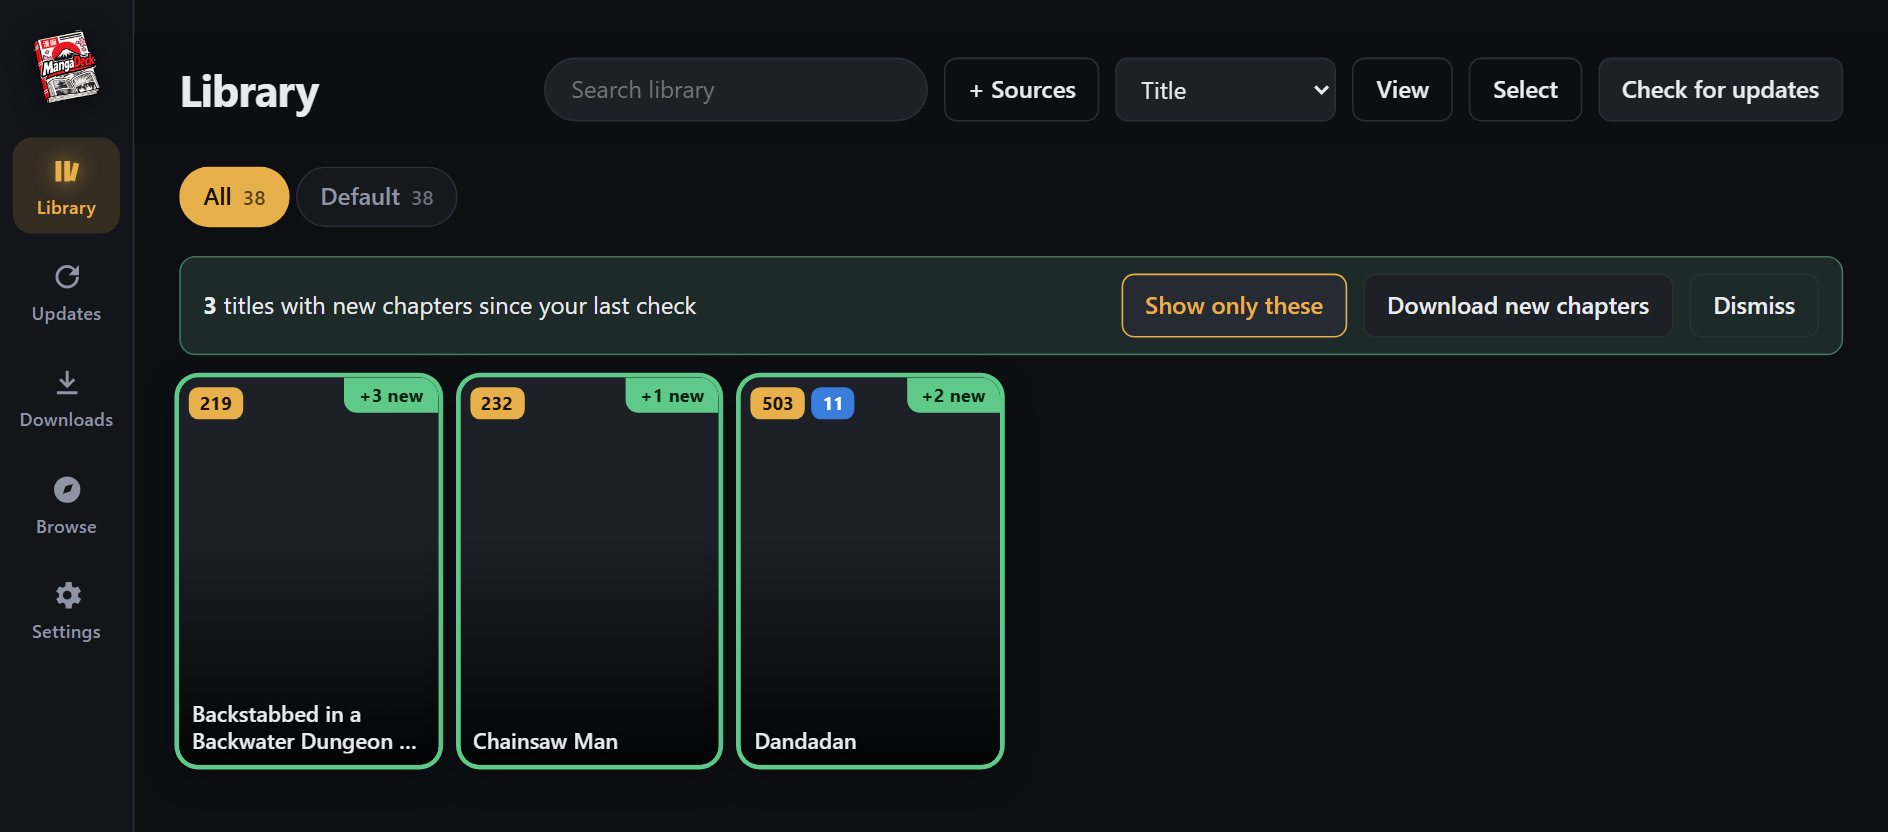
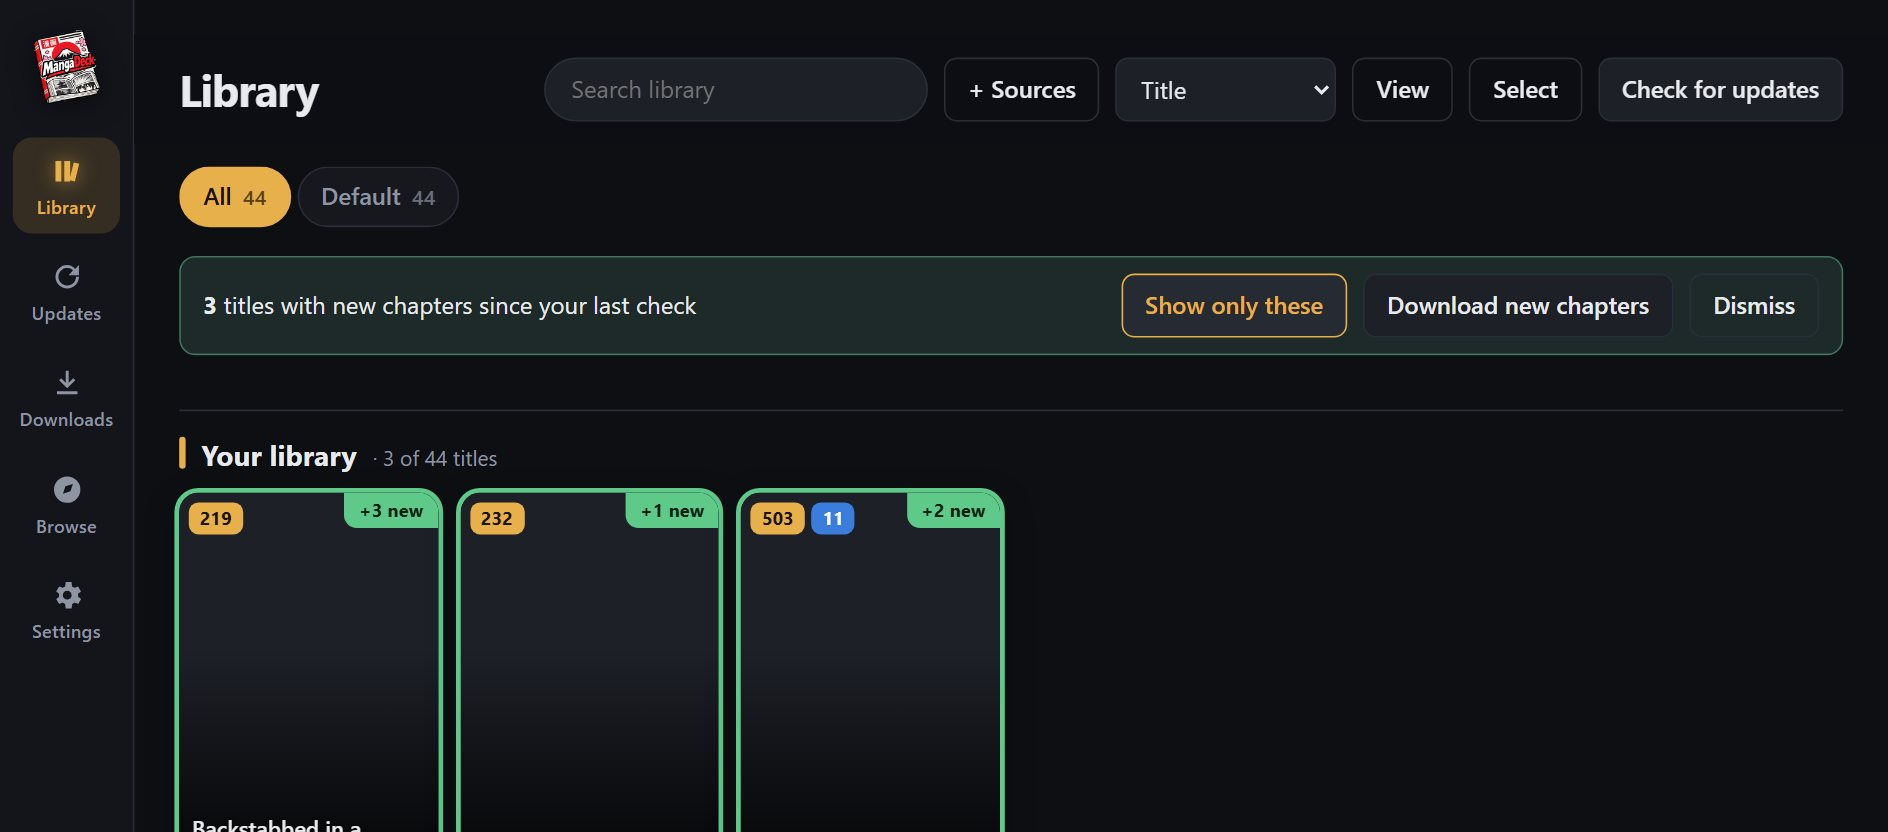
README: retake library and manga screenshots, drop four stale ones, describe the library sections

diff --git a/README.md b/README.md
@@ -14,14 +14,6 @@ React + TypeScript + Vite, no UI framework, no GraphQL codegen. About 7k lines.
 
 Manga covers are blanked out in all screenshots; in the app they show the real covers.
 
-| Library with recommendations | Manga page with official volumes |
-| --- | --- |
-| ![Library](docs/screenshots/library.jpg) | ![Manga page](docs/screenshots/manga-volumes.jpg) |
-
-| Find a title in your sources from the library | Paced bulk downloads |
-| --- | --- |
-| ![Search sources](docs/screenshots/search-sources.jpg) | ![Paced downloads](docs/screenshots/paced-downloads.jpg) |
-
 ### Downloads
 
 Bulk downloads and `.cbz` exports are saved jobs that run one chapter at a time, show their progress here, and survive a reload. A chapter that keeps
@@ -42,7 +34,8 @@ files in and the page lists what you have, what is missing, and merges the volum
 ### Library: new chapters and what's popular
 
 After **Check for updates**, titles with new chapters get a green border and a "+N new" ribbon, and a bar offers to show only them or download the new
-chapters. Above your recommendations, **What's popular** shows what is trending on AniList right now.
+chapters. The library page is laid out in clear sections: Continue reading, **What's popular** (trending on AniList right now) and **Recommended for you**
+in boxed shelves, then **Your library** with its title count. Clicking a recommendation searches all your sources.
 
 ![Library: titles with new chapters](docs/screenshots/library-new-chapters.jpg)
 
